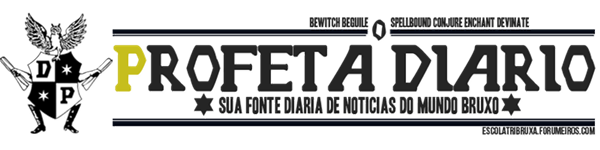
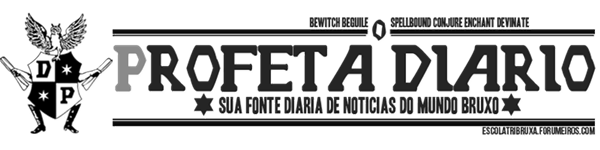
requisito5

Changed region(s): [[0.18, 0.2933, 0.27, 0.6133]]

diff --git a/style.css b/style.css
@@ -82,6 +82,11 @@ body {
   animation-fill-mode: forwards;
   animation-iteration-count: 3;
   animation-name: flying;
+  float: left;
+  margin-left: 213px;
+  margin-top: -113px;
+  opacity: 0;
+  position: absolute;
 }
 
 @keyframes hide {
@@ -121,7 +126,12 @@ body {
 @keyframes flying {
 
   1% {
-    transform: scaleX(0.1);
+    opacity: 0;
+    transform: translate(10px, 0);
+  }
+
+  100% {
+    opacity: 1;
   }
 }
 
@@ -129,6 +139,10 @@ body {
 
   .container-layout {
     background-color: red;
+  }
+
+  .fly {
+    margin-left: 440px;
   }
 
   .videoTwo {
@@ -151,6 +165,10 @@ body {
 
   .h2 {
     margin-top: 100px;
+  }
+
+  .fly {
+    margin-left: 95px;
   }
 
   .videoOne {

diff --git a/index.html b/index.html
@@ -11,7 +11,8 @@
 
 <body class="container-layout container-orientation">
   <header>
-    <img class='titulo fly' src="profeta.png" alt="titulo do jornal">
+    <img class='titulo' src="profeta.png" alt="titulo do jornal">
+    <img class='fly' src="p.png" alt="letra 'p' colorida">
   </header>
   <nav>
 
